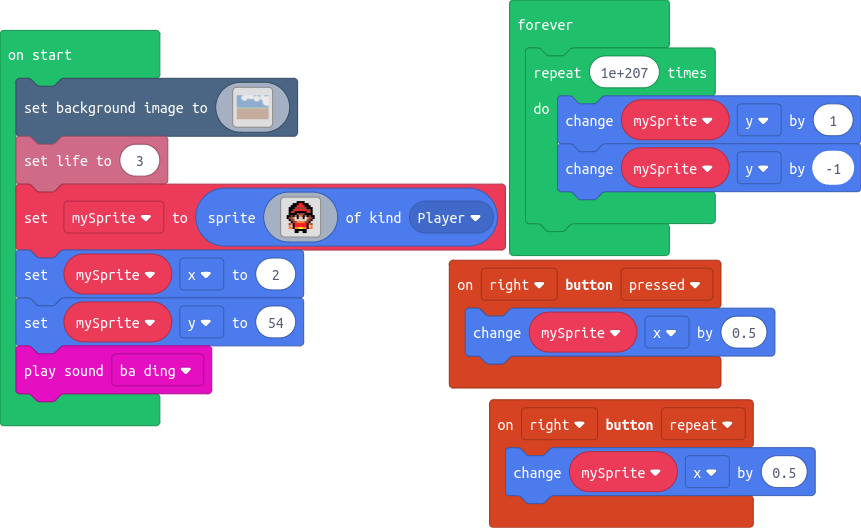
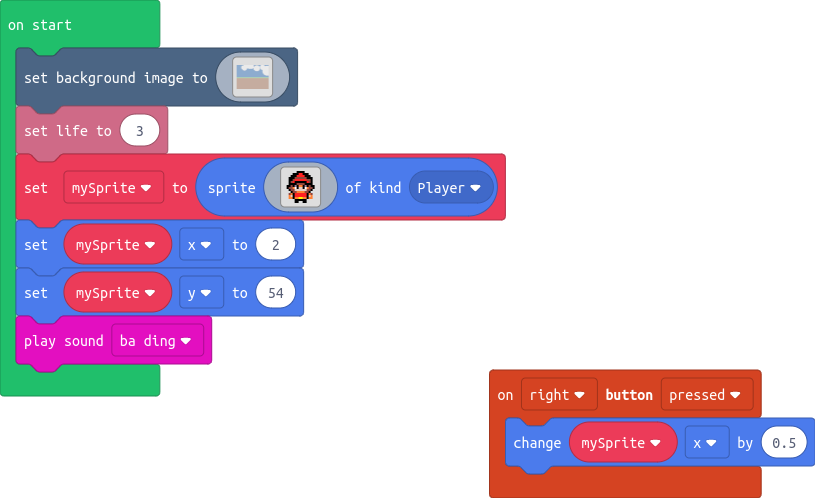
Update main.blocks, main.ts

diff --git a/main.ts b/main.ts
@@ -1,6 +1,3 @@
-controller.right.onEvent(ControllerButtonEvent.Repeated, function () {
-    mySprite.x += 0.5
-})
 controller.right.onEvent(ControllerButtonEvent.Pressed, function () {
     mySprite.x += 0.5
 })
@@ -149,9 +146,3 @@ mySprite = sprites.create(img`
 mySprite.x = 2
 mySprite.y = 54
 music.baDing.play()
-forever(function () {
-    for (let index = 0; index < 1e+207; index++) {
-        mySprite.y += 1
-        mySprite.y += -1
-    }
-})
